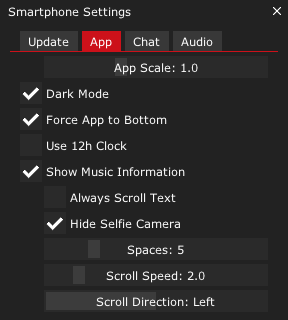
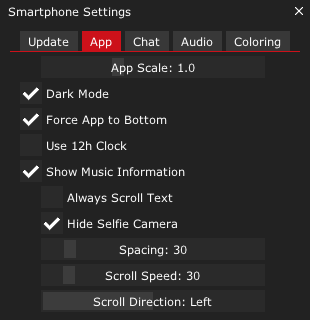
updated repo images

diff --git a/README.md b/README.md
@@ -25,7 +25,7 @@ If you're looking for a more "oldschool" feel, try my [Mobilephone](https://gith
 - **Many adjustable settings as seen below - images might be outdated, always check ingame**
 
 <p align="center">
-<img width="150" src="https://raw.githubusercontent.com/C1XTZ/ac-smartphone/refs/heads/main/.github/img/updater.png"> <img width="150" src="https://raw.githubusercontent.com/C1XTZ/ac-smartphone/refs/heads/main/.github/img/appsettings.png"> <img width="150" src="https://raw.githubusercontent.com/C1XTZ/ac-smartphone/refs/heads/main/.github/img/preview.gif"> <img width="150" src="https://raw.githubusercontent.com/C1XTZ/ac-smartphone/refs/heads/main/.github/img/chatsettings.png"> <img width="150" src="https://raw.githubusercontent.com/C1XTZ/ac-smartphone/refs/heads/main/.github/img/audiosettings.png">
+<img width="130" src="https://raw.githubusercontent.com/C1XTZ/ac-smartphone/master/.github/img/updater.png"> <img width="130" src="https://raw.githubusercontent.com/C1XTZ/ac-smartphone/master/.github/img/appsettings.png"> <img width="130" src="https://raw.githubusercontent.com/C1XTZ/ac-smartphone/master/.github/img/preview.gif"> <img width="130" src="https://raw.githubusercontent.com/C1XTZ/ac-smartphone/master/.github/img/chatsettings.png"> <img width="130" src="https://raw.githubusercontent.com/C1XTZ/ac-smartphone/master/.github/img/audiosettings.png"> <img width="130" src="https://raw.githubusercontent.com/C1XTZ/ac-smartphone/master/.github/img/colorsettings.png">
 </p>
 
 If you have any questions or suggestions, feel free to open an issue or pull request.  
